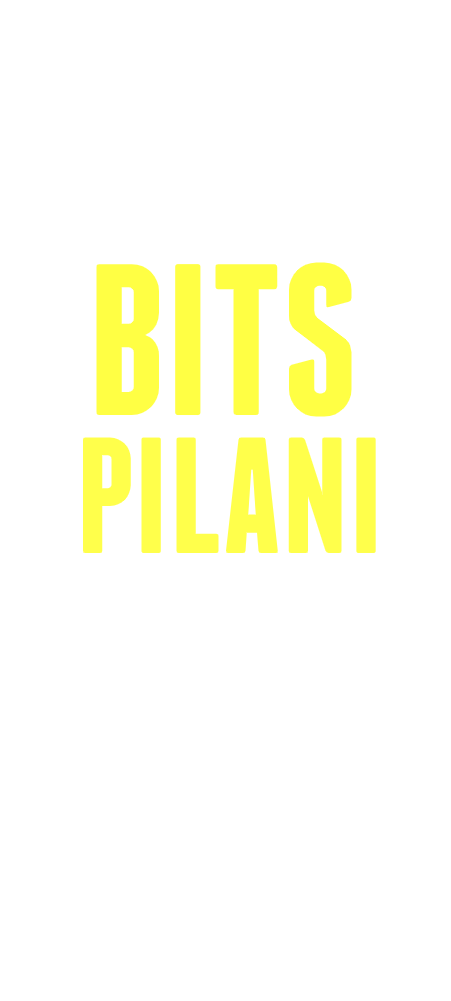
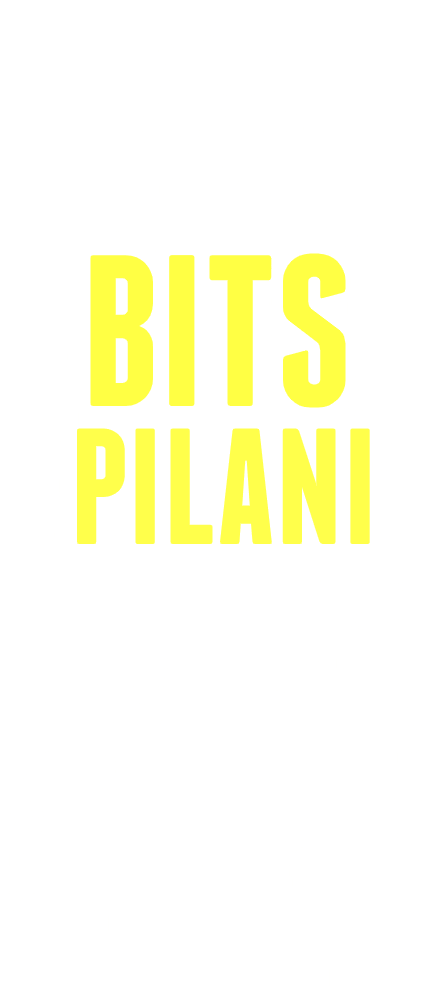
add mobile optimization

diff --git a/src/components/Home/Main.js b/src/components/Home/Main.js
@@ -2,7 +2,7 @@ import React from "react"
 import styled from "styled-components"
 import { IoMdArrowRoundForward } from "react-icons/io"
 import { ClockTower } from "../../images/index"
-import { theme } from "../../styles/index"
+import { theme, media } from "../../styles/index"
 const { colors, fontSizes } = theme
 
 const MainContainer = styled.div`
@@ -10,40 +10,12 @@ const MainContainer = styled.div`
   align-items: center;
   justify-content: space-between;
   height: calc(100vh - 110px);
-  padding: 0 4rem;
+  padding: 0 3rem;
   background: ${colors.green};
+
+  ${media.desktop`justify-content: center;`};
+  ${media.thone`padding: 0;`};
 `
-
-// const Bookmark = styled.div`
-//   position: absolute;
-//   top: 0;
-//   left: 5rem;
-//   width: 0;
-//   height: 140px;
-//   border-right: 40px solid ${colors.white};
-//   border-left: 40px solid ${colors.white};
-//   border-bottom: 20px solid transparent;
-// `
-
-// const LogoContainer = styled.div`
-//   position: absolute;
-//   display: flex;
-//   flex-direction: column;
-//   justify-content: flex-start;
-//   align-items: center;
-//   top: 0.6rem;
-//   left: 5.65rem;
-//   img {
-//     width: 60px;
-//     margin-bottom: 7px;
-//   }
-//   p {
-//     font-weight: 600;
-//     margin: 0;
-//     color: ${colors.green};
-//     font-size: ${fontSizes.l2};
-//   }
-// `
 
 const ContentContainer = styled.div`
   display: flex;
@@ -51,6 +23,7 @@ const ContentContainer = styled.div`
   justify-content: center;
   align-items: flex-start;
   margin-top: 2rem;
+  ${media.desktop`align-items: center;`};
 `
 const TitleContainer = styled.div`
   display: flex;
@@ -58,6 +31,8 @@ const TitleContainer = styled.div`
   justify-content: flex-start;
   color: ${colors.white};
   padding: 5rem 0;
+  ${media.desktop`padding: 1rem;`};
+  ${media.tiny`padding: 0rem;`};
 
   p {
     font-weight: 800;
@@ -65,6 +40,13 @@ const TitleContainer = styled.div`
     user-select: none;
     margin: 0;
     line-height: 165px;
+
+    ${media.desktop`text-align: center;`};
+    ${media.thone`font-size: ${fontSizes.l9};line-height: 135px;`};
+    ${media.phablet`font-size: 120px;line-height: 115px;`};
+    ${media.phone`font-size: 100px;line-height: 100px;`};
+    ${media.tiny`font-size: 90px;line-height: 90px;`};
+
     :nth-child(2) {
       color: ${colors.yellow};
     }
@@ -73,8 +55,13 @@ const TitleContainer = styled.div`
       line-height: 30px;
       font-weight: 600;
       font-size: ${fontSizes.l4};
+      ${media.desktop`margin: 25px 0 45px;`};
+      ${media.phablet`font-size: 18px;line-height: 18px;`};
+      ${media.phone`font-size: 16px;line-height: 16px;`};
+      ${media.tiny`font-size: 14px;line-height: 14px;`};
     }
   }
+  ${media.desktop`justify-content: center;`};
 `
 
 const ClockTowerContainer = styled.div`
@@ -86,6 +73,7 @@ const ClockTowerContainer = styled.div`
     max-height: 100%;
     width: auto;
   }
+  ${media.desktop`display: none;`};
 `
 
 const StyledButton = styled.button`
@@ -102,6 +90,8 @@ const StyledButton = styled.button`
   font-size: ${fontSizes.l3};
   font-weight: 600;
   transition: all 100ms;
+  ${media.phone`font-size: 16px;`};
+  ${media.tiny`font-size: 14px;`};
   :active,
   :focus {
     outline: none;
@@ -115,12 +105,6 @@ const StyledButton = styled.button`
 const Main = () => {
   return (
     <MainContainer>
-      {/* <Bookmark />
-      <LogoContainer>
-        <img src={BITSLogo} alt="Logo" />
-        <p>BITS</p>
-        <p>Pilani</p>
-      </LogoContainer> */}
       <ContentContainer>
         <TitleContainer>
           <p>BITS</p>

diff --git a/src/components/Navbar.js b/src/components/Navbar.js
@@ -2,7 +2,7 @@ import React from "react"
 import styled from "styled-components"
 import { BITSLogo } from "../images/index"
 import { Link } from "gatsby"
-import { theme } from "../styles/index"
+import { theme, media } from "../styles/index"
 const { colors, fontSizes } = theme
 
 const StyledNav = styled.nav`
@@ -16,6 +16,12 @@ const StyledNav = styled.nav`
   font-weight: 600;
   height: 110px;
   padding: 2.5rem 5rem 2.5rem 11rem;
+
+  ${media.thone`padding: 2.5rem 2rem 2.5rem 6.7rem;`};
+  ${media.phablet`font-size: ${fontSizes.l3};`};
+  ${media.phone`padding: 2.5rem 1rem 2.5rem 5.3rem; font-size: 16px;`};
+  ${media.tiny`font-size: 14px;`};
+
   user-select: none;
   div {
     display: flex;
@@ -46,6 +52,9 @@ const Bookmark = styled.div`
   border-right: 40px solid ${colors.white};
   border-left: 40px solid ${colors.white};
   border-bottom: 20px solid transparent;
+
+  ${media.thone`left: 1rem;`};
+  ${media.phone`height: 120px; border-right-width: 30px; border-left-width: 30px;`};
 `
 
 const LogoContainer = styled.div`
@@ -56,15 +65,19 @@ const LogoContainer = styled.div`
   align-items: center !important;
   top: 0.6rem;
   left: 5.656rem;
+  ${media.thone`left: 1.656rem;`};
+  ${media.phone`left: 1.5rem;`};
   img {
     width: 60px;
     margin-bottom: 7px;
+    ${media.phone`width: 45px;`};
   }
   p {
     font-weight: 600;
     margin: 0;
     color: ${colors.green};
     font-size: ${fontSizes.l2};
+    ${media.phone`font-size: 14px;`};
   }
 `
 

diff --git a/src/pages/archive.js b/src/pages/archive.js
@@ -2,7 +2,7 @@ import React from "react"
 import { graphql, Link } from "gatsby"
 import styled from "styled-components"
 import { Card } from "../components/Archive/index"
-import { theme } from "../styles/index"
+import { theme, media } from "../styles/index"
 import Layout from "../components/layout"
 import SEO from "../components/seo"
 const { colors, fontSizes } = theme
@@ -18,14 +18,22 @@ const HeadingContainer = styled.div`
   font-weight: 600;
   p {
     margin: 3rem 0 0;
+    ${media.thone`font-size: 80px;`};
     :last-child {
       color: ${colors.white};
       font-weight: 300;
+      ${media.thone`font-size: 70px;`};
     }
+    ${media.deskTab`margin: 4rem 0 0;`};
+    ${media.thone`margin: 0; line-height: 75px;`};
   }
+  ${media.medDesktop`font-size: 120px`};
+  ${media.desktop`font-size: 100px`};
+  ${media.deskTab`font-size: 80px`};
+  ${media.tabhone`font-size: 70px`};
+  ${media.thone`flex-direction: column; justify-content: center; align-items: center;`};
 `
 const BodyContainer = styled.div`
-  /* margin-left: 300px; */
   padding: 3rem;
   display: grid;
   grid-template-columns: repeat(auto-fill, 320px);

diff --git a/src/styles/media.js b/src/styles/media.js
@@ -3,12 +3,15 @@ import { css } from "styled-components"
 const sizes = {
   giant: 1440,
   bigDesktop: 1200,
+  medDesktop: 1080,
   desktop: 1000,
+  deskTab: 820,
   tablet: 768,
-  thone: 600,
+  tabhone: 690,
+  thone: 630,
   phablet: 480,
-  phone: 376,
-  tiny: 330,
+  phone: 420,
+  tiny: 350,
 }
 
 export const media = Object.keys(sizes).reduce((accumulator, label) => {

diff --git a/src/styles/theme.js b/src/styles/theme.js
@@ -15,7 +15,7 @@ const theme = {
     l6: "32px",
     l7: "40px",
     l8: "50px",
-    l9: "120px",
+    l9: "140px",
     l10: "180px",
   },
   easing: "cubic-bezier(0.645, 0.045, 0.355, 1)",

diff --git a/src/images/index.js b/src/images/index.js
@@ -1,4 +1,4 @@
-import ClockTower from "./ClockTower.png"
 import BITSLogo from "./BITS_Logo.png"
+import ClockTower from "./ClockTower.png"
 
 export { ClockTower, BITSLogo }
